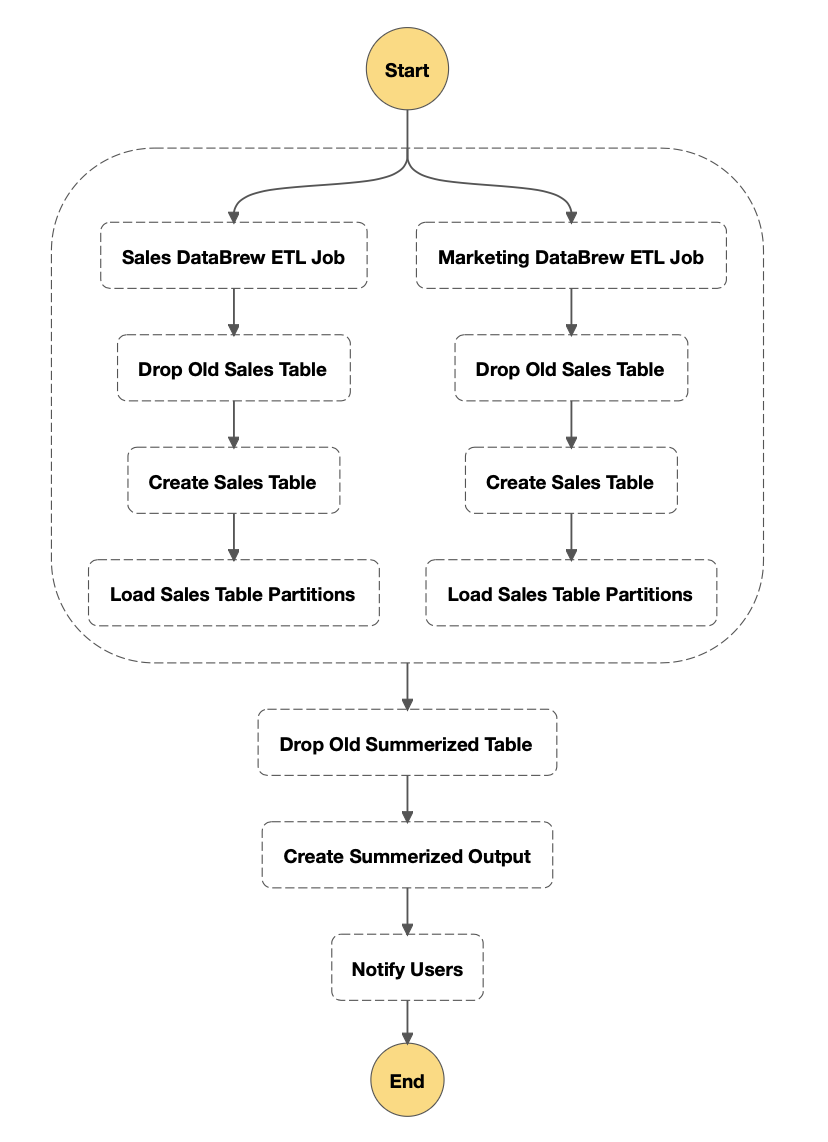
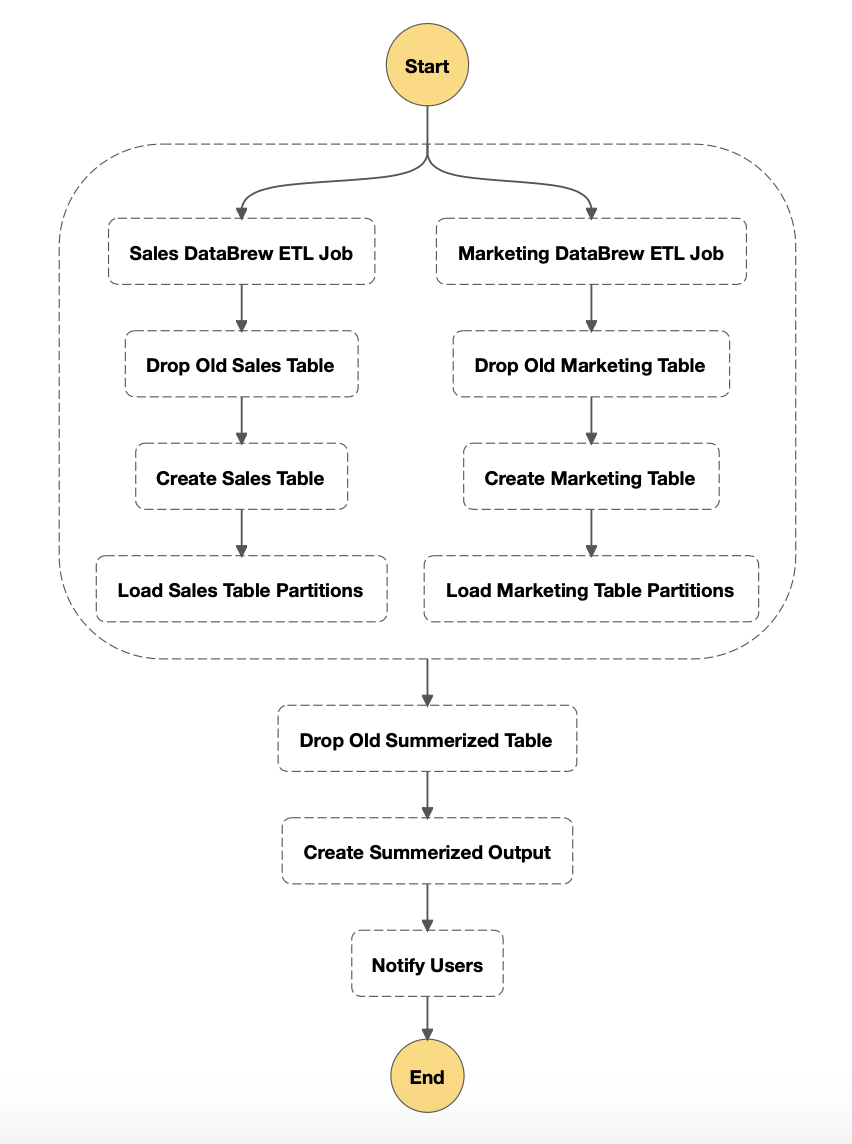
minor: correct market branch state_ids

diff --git a/examples/parallel_process_example.md b/examples/parallel_process_example.md
@@ -62,21 +62,21 @@ Next we will create the marketing branch.
 market_collect = DataBrewStartJobRunStep$new("Marketing DataBrew ETL Job", parameters=list("Name"="marketing-data-etl"))
 
 # Remove existing table
-market_athena_drop = AthenaStartQueryExecutionStep$new("Drop Old Sales Table", parameters=list(
+market_athena_drop = AthenaStartQueryExecutionStep$new("Drop Old Marketing Table", parameters=list(
     "QueryString"="DROP TABLE IF EXISTS marketing_data_output",
     "WorkGroup"=work_group,
     "ResultConfiguration"=athena_output
 ))
 
 # Rebuild Athena Table
-market_athena_create = AthenaStartQueryExecutionStep$new("Create Sales Table", parameters=list(
+market_athena_create = AthenaStartQueryExecutionStep$new("Create Marketing Table", parameters=list(
     "QueryString"="CREATE EXTERNAL TABLE `marketing_data_output`(`date` string, `new_visitors_seo` int, `new_visitors_cpc` int, `new_visitors_social_media` int, `return_visitors` int, `twitter_mentions` int, `twitter_follower_adds` int, `twitter_followers_cumulative` int, `mailing_list_adds_` int, `mailing_list_cumulative` int, `website_pageviews` int, `website_visits` int, `website_unique_visits` int, `mobile_uniques` int, `tablet_uniques` int, `desktop_uniques` int, `free_sign_up` int, `paid_conversion` int, `events` string) PARTITIONED BY (`year` string, `month` string, `day` string) ROW FORMAT SERDE 'org.apache.hadoop.hive.ql.io.parquet.serde.ParquetHiveSerDe' STORED AS INPUTFORMAT 'org.apache.hadoop.hive.ql.io.parquet.MapredParquetInputFormat' OUTPUTFORMAT 'org.apache.hadoop.hive.ql.io.parquet.MapredParquetOutputFormat' LOCATION 's3://<your-bucket-name>/sales-pipeline/transformed/marketing/' TBLPROPERTIES ('classification'='parquet', 'compressionType'='none', 'typeOfData'='file')",
     "WorkGroup"=work_group,
     "ResultConfiguration"=athena_output
 ))
 
 # Add all partitions to marketing table
-market_athena_partition = AthenaStartQueryExecutionStep$new("Load Sales Table Partitions", parameters=list(
+market_athena_partition = AthenaStartQueryExecutionStep$new("Load Marketing Table Partitions", parameters=list(
     "QueryString"="MSCK REPAIR TABLE marketing_data_output",
     "WorkGroup"=work_group,
     "ResultConfiguration"=athena_output
@@ -212,9 +212,9 @@ workflow$definition$to_json(T)
               },
               "Resource": "arn:aws:states:::databrew:startJobRun.sync",
               "Type": "Task",
-              "Next": "Drop Old Sales Table"
+              "Next": "Drop Old Marketing Table"
             },
-            "Drop Old Sales Table": {
+            "Drop Old Marketing Table": {
               "Parameters": {
                 "QueryString": "DROP TABLE IF EXISTS marketing_data_output",
                 "WorkGroup": "primary",
@@ -224,9 +224,9 @@ workflow$definition$to_json(T)
               },
               "Resource": "arn:aws:states:::athena:startQueryExecution.sync",
               "Type": "Task",
-              "Next": "Create Sales Table"
+              "Next": "Create Marketing Table"
             },
-            "Create Sales Table": {
+            "Create Marketing Table": {
               "Parameters": {
                 "QueryString": "CREATE EXTERNAL TABLE `marketing_data_output`(`date` string, `new_visitors_seo` int, `new_visitors_cpc` int, `new_visitors_social_media` int, `return_visitors` int, `twitter_mentions` int, `twitter_follower_adds` int, `twitter_followers_cumulative` int, `mailing_list_adds_` int, `mailing_list_cumulative` int, `website_pageviews` int, `website_visits` int, `website_unique_visits` int, `mobile_uniques` int, `tablet_uniques` int, `desktop_uniques` int, `free_sign_up` int, `paid_conversion` int, `events` string) PARTITIONED BY (`year` string, `month` string, `day` string) ROW FORMAT SERDE 'org.apache.hadoop.hive.ql.io.parquet.serde.ParquetHiveSerDe' STORED AS INPUTFORMAT 'org.apache.hadoop.hive.ql.io.parquet.MapredParquetInputFormat' OUTPUTFORMAT 'org.apache.hadoop.hive.ql.io.parquet.MapredParquetOutputFormat' LOCATION 's3://<your-bucket-name>/sales-pipeline/transformed/marketing/' TBLPROPERTIES ('classification'='parquet', 'compressionType'='none', 'typeOfData'='file')",
                 "WorkGroup": "primary",
@@ -236,9 +236,9 @@ workflow$definition$to_json(T)
               },
               "Resource": "arn:aws:states:::athena:startQueryExecution.sync",
               "Type": "Task",
-              "Next": "Load Sales Table Partitions"
+              "Next": "Load Marketing Table Partitions"
             },
-            "Load Sales Table Partitions": {
+            "Load Marketing Table Partitions": {
               "Parameters": {
                 "QueryString": "MSCK REPAIR TABLE marketing_data_output",
                 "WorkGroup": "primary",
@@ -290,7 +290,9 @@ workflow$definition$to_json(T)
       "End": true
     }
   }
-} 
+}
 ```
+## Sum up:
+
 Hopefully from comparing the `AWS State Language` and `R stepfunctions sdk` processes you would agree it is fairly nice to work with in comparison :P
 
